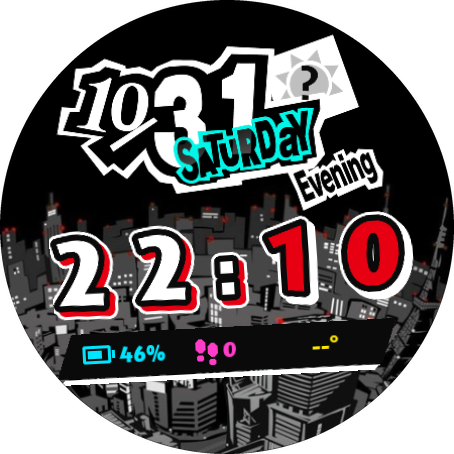
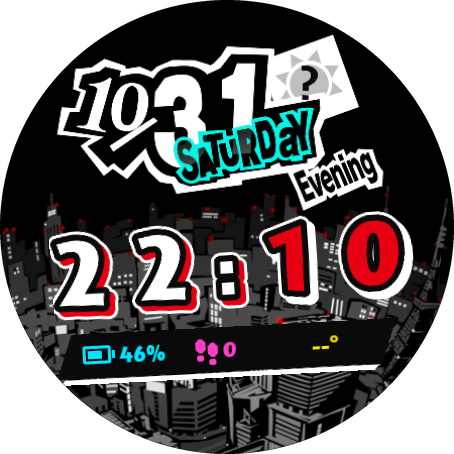
feat: use true black in the night background
Turn more OLED pixels fully off by crushing near-black values, and store
the background as PNG so JPEG noise cannot relight them.

diff --git a/tools/generate_watchface.py b/tools/generate_watchface.py
@@ -25,6 +25,7 @@ FACE = 450
 RENDER = 2  # Bitmaps are stored at 2x so they stay sharp on larger watches.
 SAFE_RADIUS = 221
 BACKGROUND_SIZE = 480
+NIGHT_BLACK_POINT = 24
 
 CANVAS = (835, 653)
 CALENDAR_SCALE, CALENDAR_X, CALENDAR_Y = 0.36, 56, 34
@@ -187,13 +188,21 @@ def time_of_day(v):
     return condition([(e, images[t]) for t, e in TOD_HOURS], images[1])
 
 
-def background(name, source):
-    """Takes a square crop of the portrait art, keeping the skyline below the middle."""
+def background(name, source, black_point=0):
+    """Takes a square crop of the portrait art, keeping the skyline below the middle.
+
+    Values at or below black_point become pure black, which turns OLED pixels off.
+    """
     image = Image.open(SOURCE / source).convert("RGB")
     side = image.width
     top = round(image.height * 0.22)
-    image.crop((0, top, side, top + side)).resize((BACKGROUND_SIZE,) * 2, Image.LANCZOS).save(
-        OUT / f"{name}.jpg", quality=90, optimize=True)
+    image = image.crop((0, top, side, top + side)).resize((BACKGROUND_SIZE,) * 2, Image.LANCZOS)
+    if black_point:
+        scale = 255 / (255 - black_point)
+        # PNG, because JPEG noise would light up the pure black pixels again.
+        image.point(lambda v: max(0, round((v - black_point) * scale))).save(OUT / f"{name}.png", optimize=True)
+    else:
+        image.save(OUT / f"{name}.jpg", quality=90, optimize=True)
     return f'<PartImage x="0" y="0" width="{FACE}" height="{FACE}"><Image resource="{name}" /></PartImage>'
 
 
@@ -286,7 +295,7 @@ def main():
         path.unlink()
 
     day_background = background("p5_bg_day", "persona_day.jpg")
-    night_background = background("p5_bg_night", "persona_night.jpg")
+    night_background = background("p5_bg_night", "persona_night.jpg", NIGHT_BLACK_POINT)
     hours_font, digit_height = glyph_font("p5_clock_hours", WHITE, BLACK, RED, 6, 5, 3)
     minutes_font, _ = glyph_font("p5_clock_minutes", RED, BLACK, WHITE, 6, 5, 3)
     ambient_font, ambient_height = glyph_font("p5_clock_ambient", BLACK, WHITE, None, 3, 0, 0)
